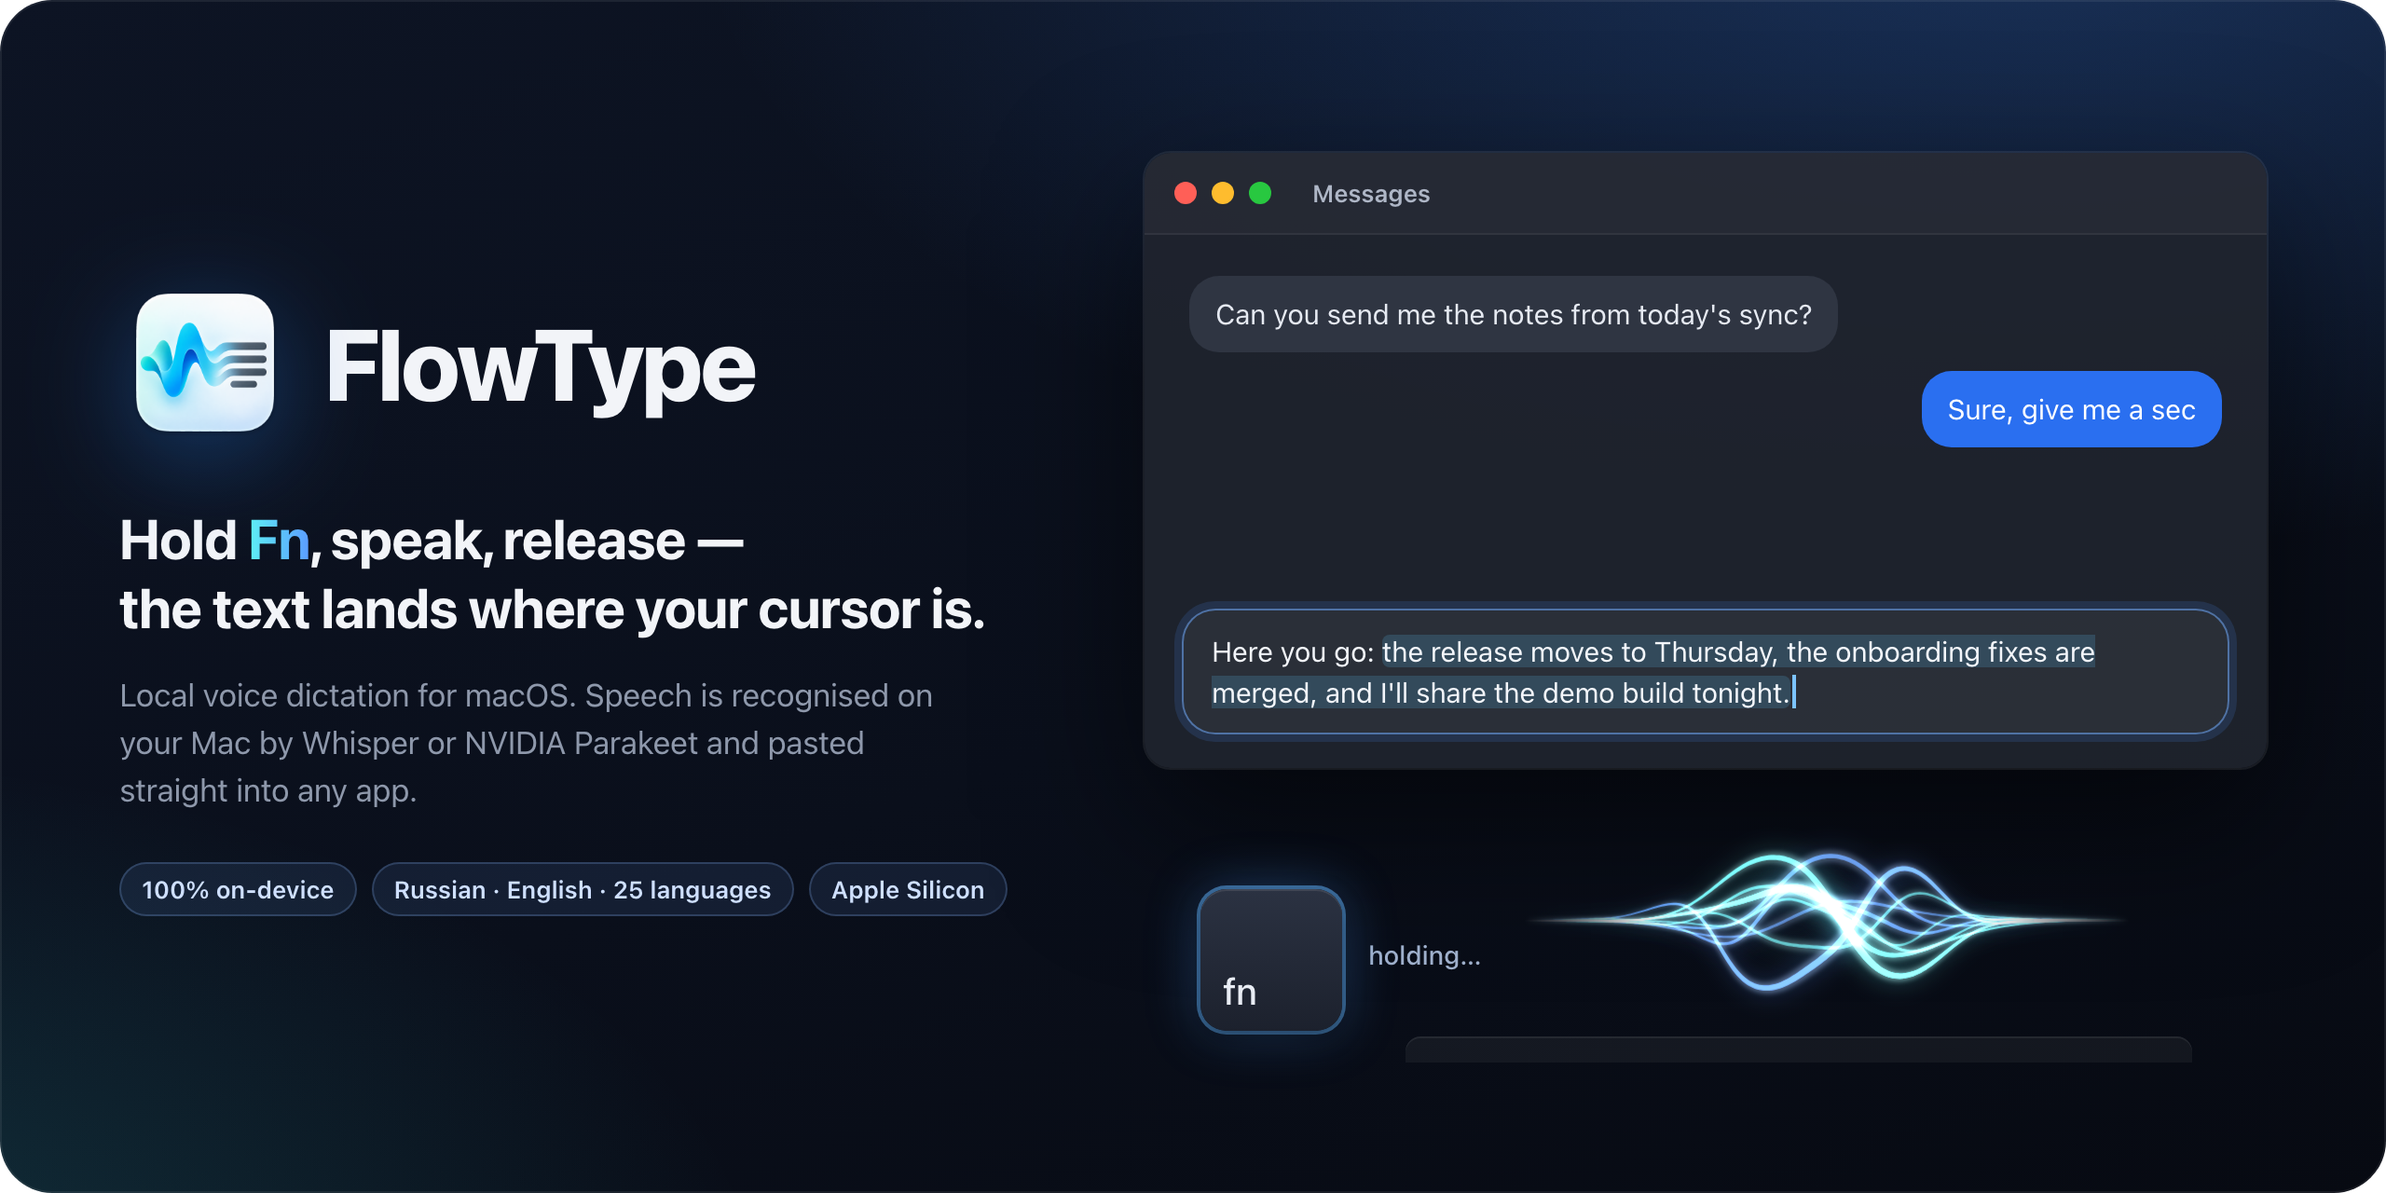
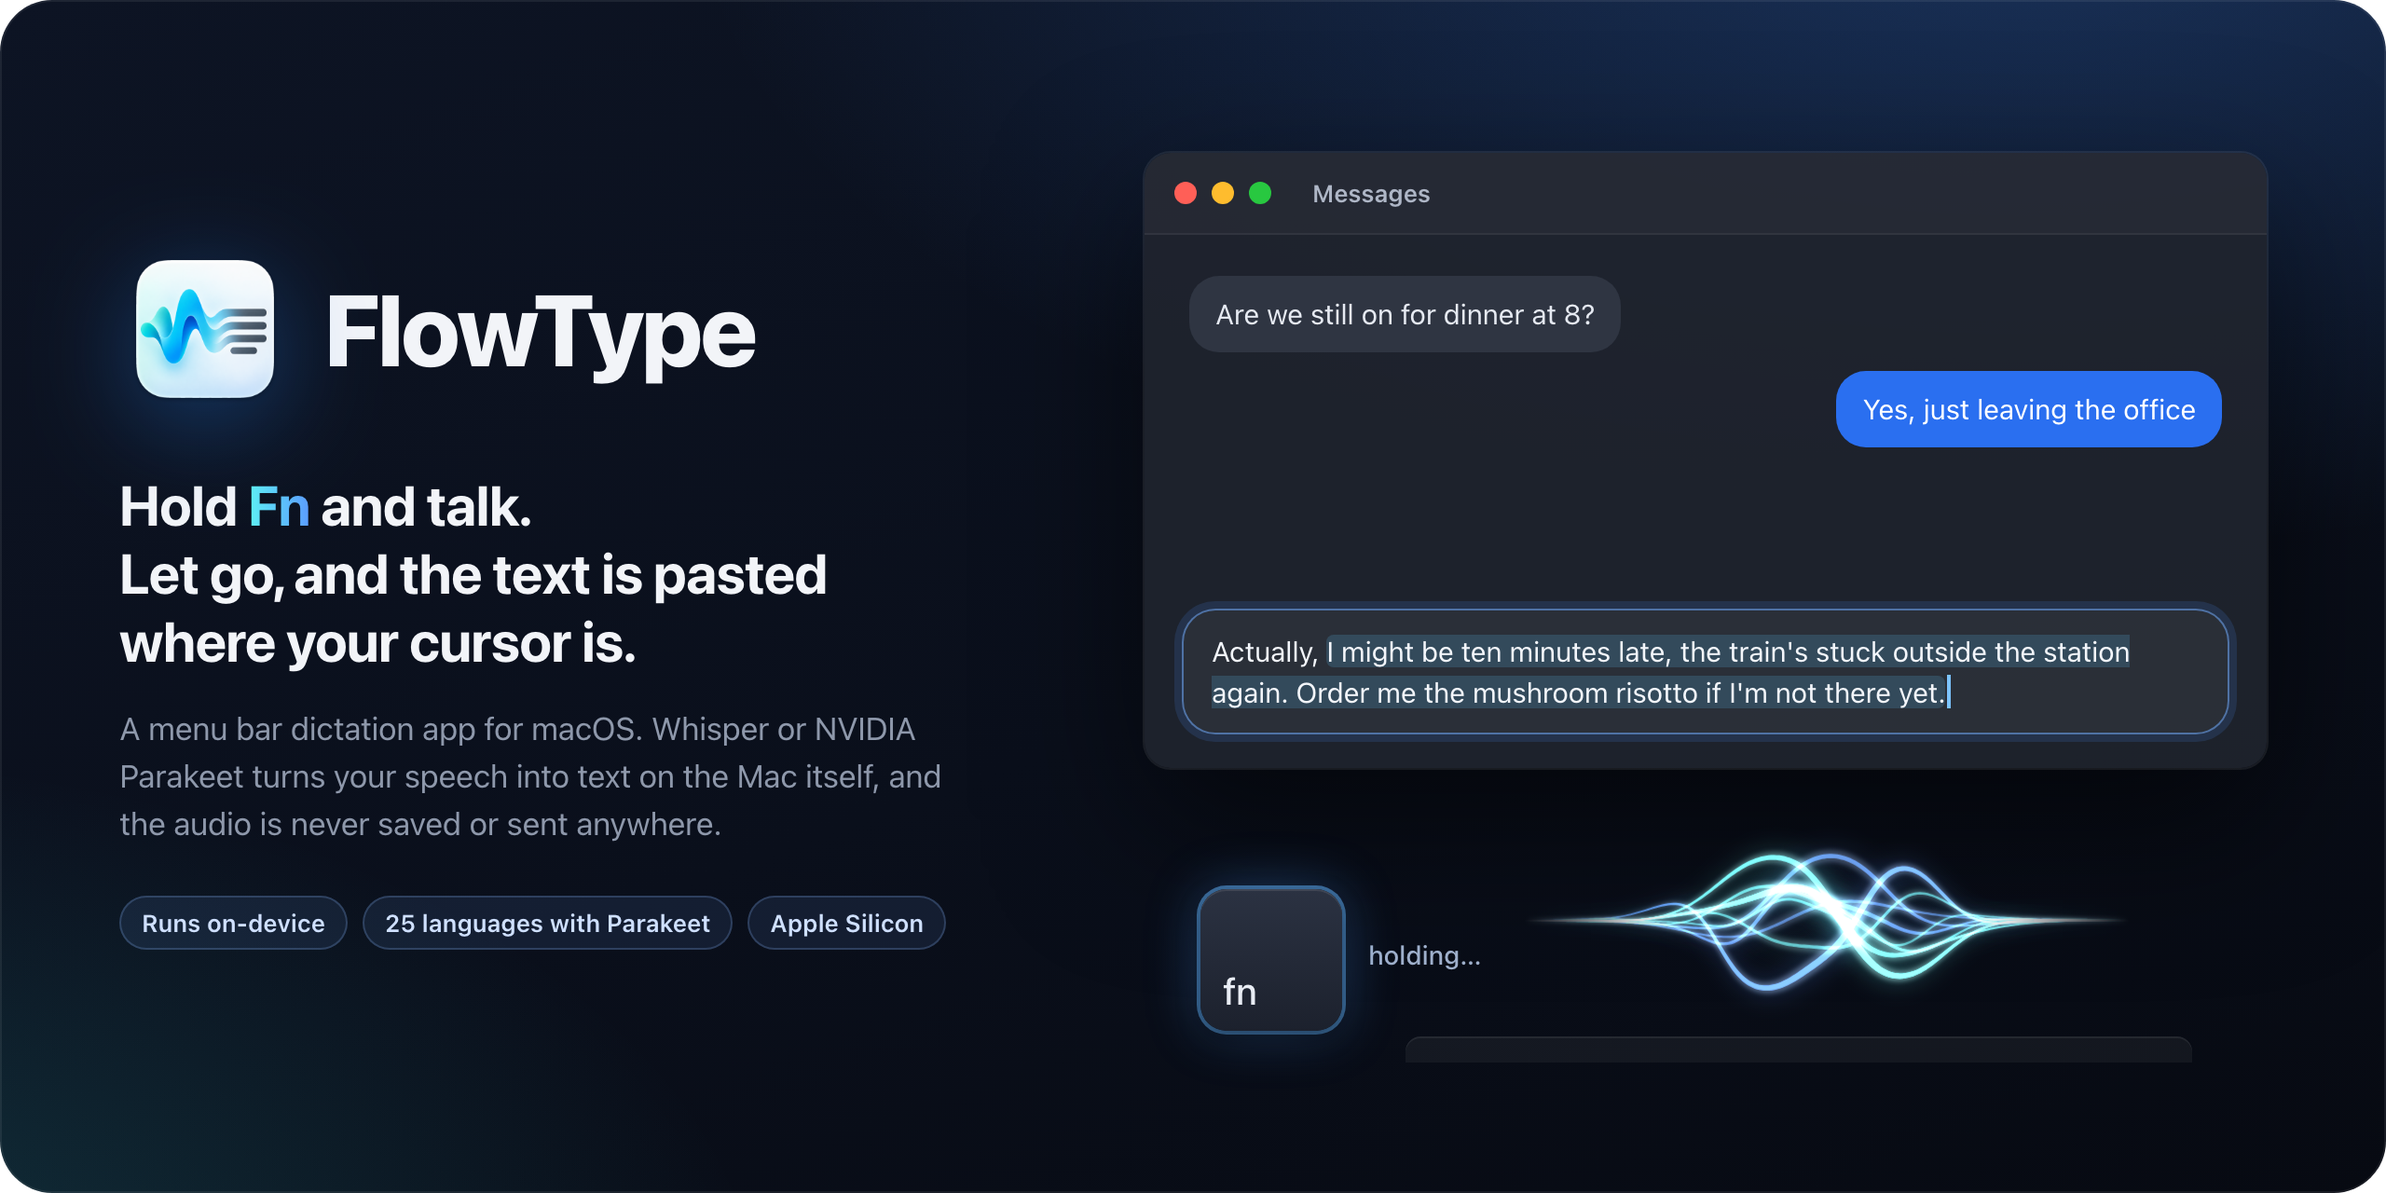
Rewrite README and illustration copy in a plainer voice

diff --git a/README.md b/README.md
@@ -1,5 +1,5 @@
 <p align="center">
-  <img src="Docs/images/hero.png" alt="FlowType — local voice dictation for macOS" width="100%">
+  <img src="Docs/images/hero.png" alt="FlowType, voice dictation that runs on your Mac" width="100%">
 </p>
 
 # FlowType
@@ -9,21 +9,20 @@
 [![Apple Silicon](https://img.shields.io/badge/Apple%20Silicon-on--device-blue)](#privacy)
 [![License: MIT](https://img.shields.io/badge/License-MIT-green.svg)](LICENSE)
 
-**FlowType** is a free, open-source macOS menu bar app for dictating text into any app.
-Hold `Fn`, speak, release — and the recognised text is pasted wherever your cursor is.
+FlowType is a free, open-source menu bar app that lets you dictate into any app on your Mac. Hold `Fn`, speak, let go, and the text is pasted wherever your cursor is.
 
-Recognition runs **entirely on your Mac**: audio never leaves the device and is never written to disk. The network is only needed once, to download the models.
+Recognition runs on your Mac, with Whisper or NVIDIA Parakeet. Your audio stays in memory and is never written to disk, and the app needs the network only once, to download the models.
 
 ## How it works
 
 <p align="center">
-  <img src="Docs/images/how-it-works.png" alt="Hold Fn → speak → release → text is pasted" width="100%">
+  <img src="Docs/images/how-it-works.png" alt="Hold Fn, speak, release, and the text is pasted" width="100%">
 </p>
 
-1. **Hold `Fn`.** Recording starts in any app, a short cue plays and the indicator appears above the Dock.
-2. **Speak.** The indicator reacts to your voice. Whisper models transcribe while you talk.
-3. **Release `Fn`.** Silence is trimmed, the remaining tail is decoded and the text is cleaned up.
-4. **The text is pasted** into the field that had focus. Your previous clipboard contents are restored.
+1. Hold `Fn` in any app. A short cue plays and the indicator appears above the Dock.
+2. Speak. The indicator follows your voice, and Whisper models start transcribing while you're still talking.
+3. Release `Fn`. FlowType trims the silence, decodes the remaining tail and cleans up the text.
+4. The text is pasted into the field that had focus, and your clipboard gets its previous contents back.
 
 If you press `Fn` and say nothing, nothing is pasted: the speech detector drops empty recordings.
 
@@ -33,79 +32,83 @@ If you press `Fn` and say nothing, nothing is pasted: the speech detector drops 
 
 | Profile | Model | When to use |
 |---|---|---|
-| **Fast** | Whisper Tiny | Quick start, lower accuracy |
-| **Balanced** *(default)* | Whisper Large v3 Turbo, 632 MB | Good accuracy at a small size |
-| **Accurate** | Whisper Large v3, 947 MB | Best Whisper accuracy, slower start |
-| **Parakeet** | NVIDIA Parakeet TDT Ultra, 630 MB | Fastest; accurate on Russian, English and 23 more European languages |
+| Fast | Whisper Tiny | Quick start, lower accuracy |
+| Balanced *(default)* | Whisper Large v3 Turbo, 632 MB | Good accuracy at a small size |
+| Accurate | Whisper Large v3, 947 MB | Best Whisper accuracy, slower start |
+| Parakeet | NVIDIA Parakeet TDT Ultra, 630 MB | Fastest; accurate on Russian, English and 23 more European languages |
 
-- **Language:** auto-detect, Russian or English.
-- **Streaming recognition (Whisper).** Text is recognised while you record, so there is very little to wait for after releasing `Fn`. The finalization mode is configurable:
-  - *Stream + tail* — keeps the confirmed streaming text and re-decodes only the tail;
-  - *Full recording* — transcribes the whole recording after the key is released (the baseline for comparison);
-  - *Stream only* — streaming text only; the fastest, but the last words are less reliable.
-- **Parakeet** runs on the Neural Engine and decodes the whole recording in a fraction of a second, with no streaming preview.
-- **Silero VAD** checks whether a recording contains speech and trims silence; otherwise Whisper tends to hallucinate subtitle phrases such as "To be continued..." on silent audio.
-- The model is warmed up in advance and stays in memory. Loading progress is shown in the menu and in Settings.
+The language can be set to auto-detect, Russian or English.
+
+Whisper recognises speech while you're still recording, so there's very little left to wait for once you release `Fn`. You choose how the final text is produced:
+
+- *Stream + tail* keeps the confirmed streaming text and re-decodes only the tail.
+- *Full recording* transcribes the whole recording after you release the key. It's the baseline the other modes are compared against.
+- *Stream only* uses the streaming text as is. It's the fastest mode, but the last words are less reliable.
+
+Parakeet runs on the Neural Engine and decodes the whole recording in a fraction of a second. It has no streaming preview.
+
+Silero VAD checks whether a recording contains speech and trims the silence. Without that check, Whisper tends to hallucinate subtitle lines like "To be continued..." on silent audio.
+
+The model is warmed up in advance and stays in memory, with loading progress shown in the menu and in Settings.
 
 ### Text cleanup
 
-- **Local rules** *(default)* — fast built-in rules that remove repeated fragments and typical Whisper artefacts.
-- **Local LLM** — the rules plus a small on-device language model on [MLX](https://github.com/ml-explore/mlx-swift-lm) that fixes punctuation and obvious recognition errors. An edit is rejected if the model adds or drops words, so what you said is never changed.
+The default mode, *Local rules*, is a set of fast built-in rules that remove repeated fragments and typical Whisper artefacts. *Off* leaves only basic cleanup.
 
-  | Model | Size | Notes |
-  |---|---|---|
-  | Qwen2.5 1.5B | 0.9 GB | Fastest, best for short phrases |
-  | Qwen3.5 2B | 1.7 GB | Noticeably better with Russian |
-  | Qwen3 4B | 2.3 GB | Most careful edits, about twice as slow |
-  | Gemma 4 E2B | 3.6 GB | Strong multilingual model from Google |
+*Local LLM* applies the same rules and then runs a small language model on your Mac, built on [MLX](https://github.com/ml-explore/mlx-swift-lm), to fix punctuation and obvious recognition errors. If its edit adds or drops more than a stray word, FlowType throws it out and keeps the rule-based text.
 
-- **Off** — basic cleanup only.
+| Model | Size | Notes |
+|---|---|---|
+| Qwen2.5 1.5B | 0.9 GB | Fastest, best for short phrases |
+| Qwen3.5 2B | 1.7 GB | Noticeably better with Russian |
+| Qwen3 4B | 2.3 GB | Most careful edits, about twice as slow |
+| Gemma 4 E2B | 3.6 GB | Strong multilingual model from Google |
 
 ### Pasting
 
-- The text is put on the clipboard and pasted with `⌘V` into the app where you started dictating.
-- The clipboard is restored after pasting (can be turned off).
-- If `⌘V` fails, the text is inserted through the Accessibility API. If that fails too, it stays on the clipboard.
-- **Parallels Desktop** is handled separately, since it syncs the clipboard with the guest OS asynchronously.
-- Auto-paste can be turned off, in which case the text is only copied.
+FlowType puts the text on the clipboard, pastes it with `⌘V` into the app where you started dictating, then restores your previous clipboard (you can turn that off). If `⌘V` fails, the text is inserted through the Accessibility API, and if that fails too, it stays on the clipboard.
+
+Parallels Desktop gets its own handling, because it syncs the clipboard with the guest OS asynchronously. With auto-paste off, the text is only copied.
 
 ### Recording indicator
 
 <p align="center">
-  <img src="Docs/images/indicators.png" alt="Waves and Bars indicators" width="100%">
+  <img src="Docs/images/indicators.png" alt="The Waves and Bars indicator styles" width="100%">
 </p>
 
-- **Waves** — glowing waves that open out of an orb, react to your voice, carry a travelling pulse of light while processing and flash on paste. Five colour themes: blue, red, yellow, green and violet. Drawn with Core Animation instead of SwiftUI's Metal renderer, so they use almost no GPU memory.
-- **Bars** — a compact pill with level bars, dots while transcribing and a checkmark after pasting.
-- **Microphone sensitivity** is adjustable: at low values the indicator ignores background noise.
-- The indicator appears almost instantly and collapses right after the paste instead of lingering on screen.
+Waves is a set of glowing waves that open out of an orb and react to your voice. While the text is being processed, a pulse of light travels along them, and they flash when it's pasted. They come in five colours: blue, red, yellow, green and violet. The waves are drawn with Core Animation instead of SwiftUI's Metal renderer, which keeps their GPU memory use close to zero.
+
+Bars is a compact pill with level bars. It shows dots while transcribing and a checkmark after pasting.
+
+Either style appears almost instantly and collapses right after the paste. Microphone sensitivity is adjustable, and at low values the indicator ignores background noise.
 
 ### Sounds
 
-- Short cues mark the start and end of recording and a successful paste, so you don't need to watch the screen.
-- The volume is adjustable with a slider, and sounds can be turned off entirely. Each cue has a play button for previewing it.
-- While the start cue plays, the indicator doesn't mistake it for your voice. With sounds off, the waves react to speech straight away.
+Short cues play when recording starts and stops and when the text is pasted, so you know where you are without glancing at the indicator. You can adjust the volume or turn sounds off, and preview each cue with its play button.
+
+The indicator doesn't mistake the start cue for your voice. With sounds off, the waves react to speech straight away.
 
 ### Menu and settings
 
 <p align="center">
-  <img src="Docs/images/settings.png" alt="Settings window: Models and Indicator panes" width="100%">
+  <img src="Docs/images/settings.png" alt="The Settings window with the Models and Indicator panes" width="100%">
 </p>
 
-- The menu shows the status, model loading progress, and the CPU and memory used by the app.
-- Settings live in one window with a sidebar, like System Settings:
-  - **General** — hotkey, auto-paste and clipboard restore, open at login, reset settings;
-  - **Permissions** — microphone and Accessibility; changes made in System Settings are picked up automatically;
-  - **Models** — profile choice, model download and deletion, loading progress of the active model;
-  - **Transcription** — language, streaming mode and text cleanup;
-  - **Indicator** — style, colour and sensitivity, with a live preview of the indicator;
-  - **Sounds** — on/off, volume and cue previews.
-- On first launch, an onboarding window offers to download the recommended model.
+The menu shows the current status, model loading progress, and the CPU and memory FlowType is using. Settings live in one window with a sidebar, the way System Settings does it:
+
+- General: hotkey, auto-paste and clipboard restore, open at login, reset settings.
+- Permissions: microphone and Accessibility. Changes you make in System Settings are picked up automatically.
+- Models: profile choice, model download and deletion, loading progress of the active model.
+- Transcription: language, streaming mode and text cleanup.
+- Indicator: style, colour and sensitivity, with a live preview.
+- Sounds: on/off, volume and cue previews.
+
+On first launch, an onboarding window offers to download the recommended model.
 
 ## Under the hood
 
 <p align="center">
-  <img src="Docs/images/pipeline.png" alt="Record → detect speech → transcribe → clean up → paste" width="100%">
+  <img src="Docs/images/pipeline.png" alt="Record, detect speech, transcribe, clean up, paste" width="100%">
 </p>
 
 | Stage | Technology |
@@ -133,7 +136,7 @@ FlowType/
 - macOS 14.0 or later
 - Apple Silicon Mac (recommended)
 - Xcode 16 or later to build
-- Permissions: **Microphone** for recording and **Accessibility** for the global hotkey and pasting
+- Microphone permission for recording, and Accessibility for the global hotkey and pasting
 
 ## Build and run
 
@@ -143,7 +146,7 @@ cd flowType
 open FlowType.xcodeproj
 ```
 
-Swift packages are resolved automatically. Run the `FlowType` scheme. On first launch:
+Xcode resolves the Swift packages automatically. Run the `FlowType` scheme, then on first launch:
 
 1. Grant Microphone and Accessibility access (*Settings → Permissions*).
 2. Download a model in the onboarding window or in *Settings → Models*.
@@ -159,11 +162,11 @@ scripts/build_dmg.sh
 
 The script builds Release and puts the image at `dist/Flow Type-<version>.dmg`.
 
-> The build is signed with an Apple Development certificate and is not notarized, so Gatekeeper blocks it on first launch on another Mac. Open the app with right-click → *Open*, or click *Open Anyway* in *System Settings → Privacy & Security*.
+> The build is signed with an Apple Development certificate and isn't notarized, so Gatekeeper blocks it the first time it's opened on another Mac. Open the app with right-click → *Open*, or click *Open Anyway* in *System Settings → Privacy & Security*.
 
 ### Debugging text cleanup
 
-LLM cleanup can be run from the command line without recording:
+You can run LLM cleanup from the command line without recording anything:
 
 ```bash
 # warm up (and download if needed) the cleanup model
@@ -175,27 +178,25 @@ LLM cleanup can be run from the command line without recording:
 
 ### Tuning the waves look
 
-A hidden **Wave Tuner** editor is available for design work. Open *Settings → Indicator* and quickly press `⌥` three times — a *Fine-tune…* button appears. The editor lets you toggle every layer (halo, glow, lines, orb, additive blending) and adjust its parameters while watching the result on white, gray and dark backgrounds. Values are saved and applied to the real indicator. The defaults live in `FlowType/UI/WaveAppearance.swift`.
+The Wave Tuner is a hidden editor for design work. Open *Settings → Indicator* and press `⌥` three times quickly, and a *Fine-tune…* button appears. In the editor you can switch each layer on or off (halo, glow, lines, orb, additive blending) and adjust its parameters while you watch the result on white, light gray and dark backgrounds. Your values are saved and applied to the real indicator. The defaults live in `FlowType/UI/WaveAppearance.swift`.
 
 ## Privacy
 
-- Audio is processed in memory and never saved.
-- Recognition and cleanup run locally, with no cloud APIs.
-- The network is used only to download models from Hugging Face.
+Audio is processed in memory and never saved. Recognition and cleanup run locally, with no cloud APIs. The network is used only to download models from Hugging Face.
 
 ## Acknowledgements
 
 FlowType is built on these open-source projects:
 
-- [WhisperKit](https://github.com/argmaxinc/argmax-oss-swift) by Argmax — MIT
-- [FluidAudio](https://github.com/FluidInference/FluidAudio) by FluidInference (Parakeet and Silero VAD on Core ML) — Apache 2.0
-- [MLX Swift](https://github.com/ml-explore/mlx-swift) and [MLX Swift LM](https://github.com/ml-explore/mlx-swift-lm) by Apple — MIT
-- [swift-transformers](https://github.com/huggingface/swift-transformers) and [swift-huggingface](https://github.com/huggingface/swift-huggingface) by Hugging Face — Apache 2.0
+- [WhisperKit](https://github.com/argmaxinc/argmax-oss-swift) by Argmax (MIT)
+- [FluidAudio](https://github.com/FluidInference/FluidAudio) by FluidInference, for Parakeet and Silero VAD on Core ML (Apache 2.0)
+- [MLX Swift](https://github.com/ml-explore/mlx-swift) and [MLX Swift LM](https://github.com/ml-explore/mlx-swift-lm) by Apple (MIT)
+- [swift-transformers](https://github.com/huggingface/swift-transformers) and [swift-huggingface](https://github.com/huggingface/swift-huggingface) by Hugging Face (Apache 2.0)
 
-Speech and language models are not bundled with the app. They are downloaded from Hugging Face on demand and are covered by their own licenses: OpenAI Whisper, NVIDIA Parakeet, Silero VAD, Qwen and Gemma.
+Speech and language models aren't bundled with the app. They're downloaded from Hugging Face on demand and are covered by their own licenses: OpenAI Whisper, NVIDIA Parakeet, Silero VAD, Qwen and Gemma.
 
 ## License
 
 The FlowType source code is released under the [MIT License](LICENSE).
 
-The FlowType name, the app icon, the menu bar icon and the images in `Docs/images` are not covered by the MIT License; all rights to them are reserved. If you publish a fork or a derived app, please give it a different name and icon.
+The FlowType name, the app icon, the menu bar icon and the images in `Docs/images` are not covered by the MIT License, and all rights to them are reserved. If you publish a fork or a derived app, please give it a different name and icon.
